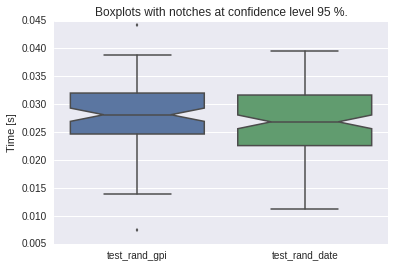
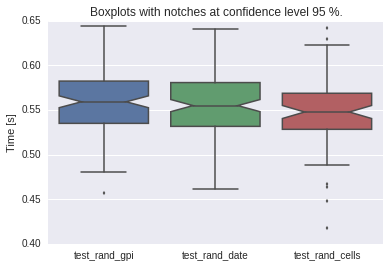
updated documentation with new cell reading example

diff --git a/docs/dataset_example.rst b/docs/dataset_example.rst
@@ -5,98 +5,146 @@
     import time
     import datetime as dt
     import numpy as np
-
-
 .. code:: python
 
-    # define a fake Dataset class that implements the two methods
-    # read_ts and read_img
-
+    # define a fake Dataset class that implements the methods
+    # get_timeseries, get_avg_image and get_data
+    
     class FakeDataset(object):
-
+    
         """
         Fake Dataset that provides routines for reading
         time series and images
         that do nothing
         """
-
+    
         def __init__(self):
             pass
-
-        def read_ts(self, gpi):
+            self.ts_read = 0
+            self.img_read = 0
+            self.cells_read = 0
+    
+        def get_timeseries(self, gpi, date_start=None, date_end=None):
             time.sleep(0.01*np.random.rand(1))
+            self.ts_read += 1
             return None
-
-        def read_img(self, date):
+    
+        def get_avg_image(self, date_start, date_end=None, cell_id=None):
             """
             Image readers generally return more than one
             variable. This should not matter for these tests.
             """
-            assert type(date) == dt.datetime
+            assert type(date_start) == dt.datetime
+            self.img_read += 1
             time.sleep(0.01*np.random.rand(1))
             return None, None, None, None, None
+    
+        def get_data(self, date_start, date_end, cell_id):
+            """
+            Image readers generally return more than one
+            variable. This should not matter for these tests.
+            """
+            assert type(date_start) == dt.datetime
+            assert type(date_end) == dt.datetime
+            self.cells_read += 1
+            time.sleep(0.01*np.random.rand(1))
+            return None, None, None, None, None
+    
 
 .. code:: python
 
     fd = FakeDataset()
     # setup grid point index list, must come from grid object or
     # sciDB
-    # this test dataset has 10000 gpis of which 20 percent will be read
+    # this test dataset has 10000 gpis of which 1 percent will be read
     gpi_list = range(10000)
-
+    
     @test_runner.measure('test_rand_gpi', runs=100)
     def test_ts():
         test_runner.read_rand_ts_by_gpi_list(fd, gpi_list)
-
+    
     result_ts = test_ts()
-
+    
     print result_ts
-
+    
 
 
 .. parsed-literal::
 
-
+    
     Results test_rand_gpi
     100 runs
-    median 0.0281 mean 0.0281 stdev 0.0060
-    sum 2.8130
+    median 0.5642 mean 0.5591 stdev 0.0334
+    sum 55.9069
     95%% confidence interval of the mean
-    upper 0.0293
+    upper 0.5657
            |
-    mean  0.0281
+    mean  0.5591
            |
-    lower 0.0269
+    lower 0.5524
 
 
 .. code:: python
 
     # setup datetime list
-    # this test dataset has 10000 days of dates of which 20 percent will be read
+    # this test dataset has 10000 days of dates of which 1 percent will be read
     date_list = []
     for days in range(10000):
         date_list.append(dt.datetime(2007, 1, 1) + dt.timedelta(days=days))
-
+    
     @test_runner.measure('test_rand_date', runs=100)
     def test_img():
         test_runner.read_rand_img_by_date_list(fd, date_list)
-
+    
     result_img = test_img()
     print result_img
 
 .. parsed-literal::
 
-
+    
     Results test_rand_date
     100 runs
-    median 0.0260 mean 0.0269 stdev 0.0062
-    sum 2.6858
+    median 0.5530 mean 0.5548 stdev 0.0343
+    sum 55.4800
     95%% confidence interval of the mean
-    upper 0.0281
+    upper 0.5616
            |
-    mean  0.0269
+    mean  0.5548
            |
-    lower 0.0256
+    lower 0.5480
+
+
+.. code:: python
+
+    """
+    Read data by cell list using fixed start and end date
+    1 percent of the cells are read with a minimum of 1 cell.
+    """
+    fd = FakeDataset()
+    cell_list = range(10000)
+    
+    @test_runner.measure('test_rand_cells', runs=100)
+    def test():
+        test_runner.read_rand_cells_by_cell_list(fd,
+                                                 dt.datetime(2007, 1, 1), dt.datetime(2008, 1, 1), cell_list)
+    
+    results_cells = test()
+    print results_cells
+
+
+.. parsed-literal::
+
+    
+    Results test_rand_cells
+    100 runs
+    median 0.5510 mean 0.5476 stdev 0.0368
+    sum 54.7624
+    95%% confidence interval of the mean
+    upper 0.5549
+           |
+    mean  0.5476
+           |
+    lower 0.5403
 
 
 .. code:: python
@@ -104,11 +152,12 @@
     import smdc_perftests.visual as vis
     import matplotlib.pyplot as plt
     %matplotlib inline
-
-    fig, axis = vis.plot_boxplots(result_ts, result_img)
+    
+    fig, axis = vis.plot_boxplots(result_ts, result_img, results_cells)
     plt.show()
 
 
 
 
 .. image:: output_4_1.png
+
